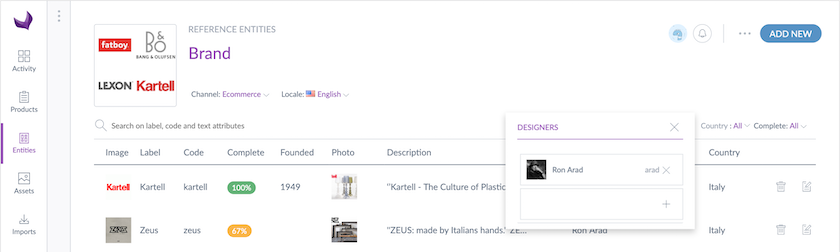
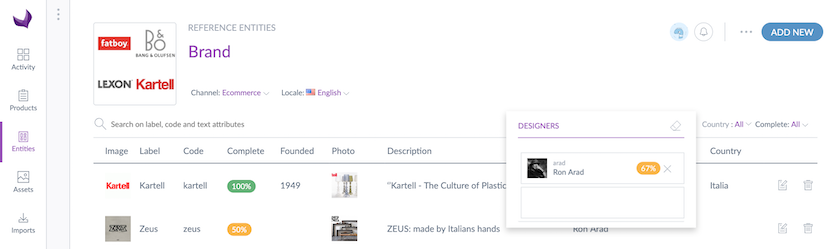
Add the completeness in record selector + eraser for filter

diff --git a/content/md/products-super-power/enrich-your-reference-entity-records.md b/content/md/products-super-power/enrich-your-reference-entity-records.md
@@ -80,7 +80,7 @@ To know how to define the required attributes for the completeness, please take 
 
 ## Filter on options and reference entity links (_since 3.1_)
 
-_Since the 3.1 version_, we added the possibility to filter on single/multiple options or reference entity single/multiple links attributes types in the records grid. This filter allows an exact search on an reference entity option value or on a reference entity link. 
+_Since the 3.1 version_, we added the possibility to filter on single/multiple options or reference entity single/multiple links attributes types in the records grid. This filter allows an exact search on an reference entity option value or on a reference entity link.
 
 For instance:
 - If a "Brand" reference entity has a "Designers" attribute linked to a "Designer" reference entity, you can search for all brands with the designer "Ron Arad".
@@ -93,6 +93,8 @@ The operator is an `in list` operator. If you are looking for the brand with the
 You can combine filters. For instance, you can search on all brands with the country "Italy" AND the designer "Ron Arad".
 
 A record or an option can be removed from a filter using the cross.
+
+To empty a filter, you can click on the eraser.
 
 
 # Edit a record
@@ -127,11 +129,15 @@ It is also possible to link a record to another one, and it is very simple.
 
 For example, you can link a *Designer* (let's say *"Philippe Starck"*) to the record *"Kartell"*, or to several records brands belonging to the *"Brands"* entity.  
 
-![Records link entity](../img/Records_link_entity_2.png)
-
 Please refer to this [article](/articles/manage-reference-entities.html#add-an-attribute) to discover how to do so.
 
 Once you have chosen which entity is linked, you can see a new selector with all the records of the linked entity.
+
+![Records link entity](../img/Records_link_entity_2.png)
+
+_Since the 3.1 version_, we added the completeness of a record in the selector.
+
+![Records link entity](../img/Records_completeness.png)
 
 ::: tips
 Click on the `link` icon on each record line in the selector to preview the record! It will automatically open a new tab in your browser.

diff --git a/content/md/products-super-power/work-on-a-product.md b/content/md/products-super-power/work-on-a-product.md
@@ -176,6 +176,10 @@ It's very simple:
 
 ![selector](../img/Products_EntitySelector.png)
 
+_Since the 3.1 version_, we added the completeness of a record in the selector.
+
+![selector](../img/Products_EntitySelectorCompleteness.png)
+
 ::: tips
 You can open the record directly from the list: just click on the `Link` icon at the end of each record line and the record will open in a new tab.
 :::
